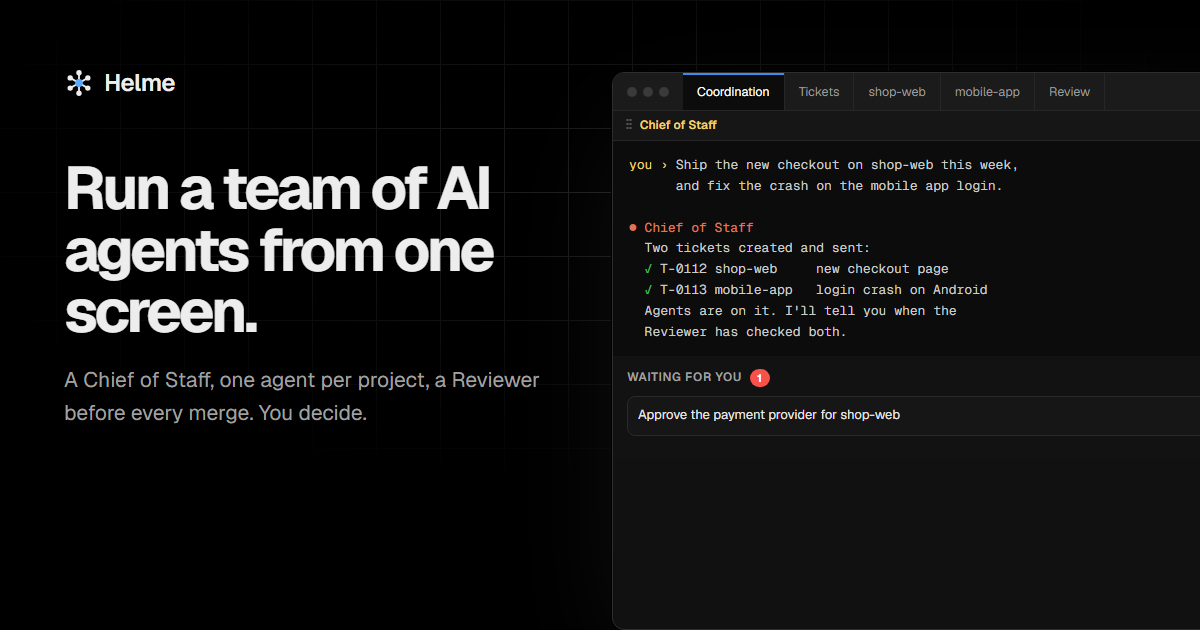
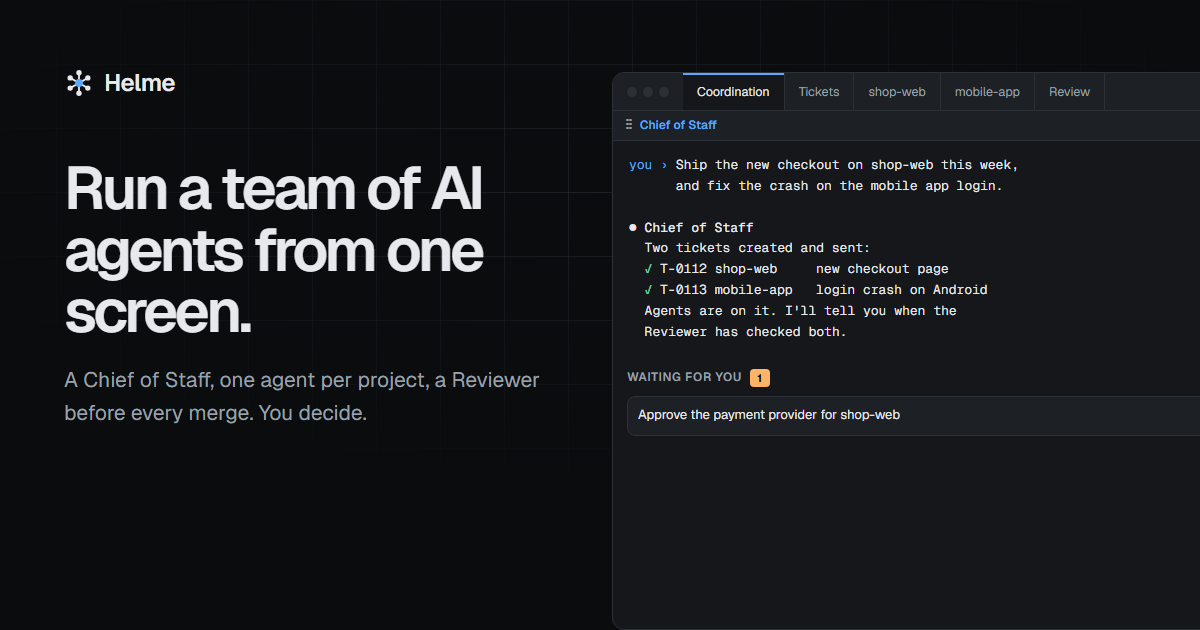
Apply the approved Helme brand to the home and Updates pages
Colors come from the brand tokens (ground, surface, line, ink, helm-blue
accent, waiting/success/danger), every hard-coded color is mapped to a
token, radii are 4/8/12, drop shadows are removed, primary buttons use the
accent, and the display weight is 600. The share image is re-rendered.

diff --git a/styles.css b/styles.css
@@ -1,18 +1,36 @@
 :root {
-  --bg: #000;
-  --fg: #ededed;
-  --dim: #a1a1a1;
-  --muted: #737373;
-  --line: #1f1f1f;
-  --line-2: #2e2e2e;
-  --card: #0a0a0a;
-  --term: #0c0c0c;
-  --green: #3fb950;
-  --yellow: #e3b341;
-  --red: #f85149;
-  --blue: #3b8eea;
-  --sans: "Geist", -apple-system, "Segoe UI", Roboto, Helvetica, Arial, sans-serif;
-  --mono: "Geist Mono", ui-monospace, "Cascadia Mono", Consolas, monospace;
+  /* Helme brand tokens (approved 2026-10-04; dark theme) */
+  --helm-blue: #5aa9ff;
+  --accent: #5aa9ff;
+  --on-accent: #0b0c0e;
+  --ground: #0b0c0e;
+  --surface: #15171b;
+  --surface-raised: #1d2025;
+  --line: #2c3037;
+  --ink: #e7e9ec;
+  --ink-muted: #9aa1ab;
+  --waiting: #ffb366;
+  --success: #6fd3a0;
+  --danger: #ff6b6b;
+  --radius-sm: 4px;
+  --radius-md: 8px;
+  --radius-lg: 12px;
+  --grid: color-mix(in srgb, var(--line) 55%, transparent);
+
+  /* names used across the stylesheets */
+  --bg: var(--ground);
+  --fg: var(--ink);
+  --dim: var(--ink-muted);
+  --muted: var(--ink-muted);
+  --line-2: var(--line);
+  --card: var(--surface);
+  --term: var(--surface);
+  --green: var(--success);
+  --yellow: var(--waiting);
+  --red: var(--danger);
+  --blue: var(--accent);
+  --sans: "Geist", "Segoe UI", system-ui, sans-serif;
+  --mono: "Geist Mono", "Cascadia Mono", Consolas, monospace;
   color-scheme: dark;
 }
 
@@ -42,7 +60,7 @@ code, pre { font-family: var(--mono); }
 /* Nav */
 .nav {
   position: sticky; top: 0; z-index: 10;
-  background: rgba(0,0,0,.72);
+  background: color-mix(in srgb, var(--ground) 82%, transparent);
   backdrop-filter: saturate(180%) blur(12px);
   -webkit-backdrop-filter: saturate(180%) blur(12px);
   border-bottom: 1px solid var(--line);
@@ -56,8 +74,8 @@ code, pre { font-family: var(--mono); }
 /* Grid background */
 .grid-bg {
   background-image:
-    linear-gradient(var(--line) 1px, transparent 1px),
-    linear-gradient(90deg, var(--line) 1px, transparent 1px);
+    linear-gradient(var(--grid) 1px, transparent 1px),
+    linear-gradient(90deg, var(--grid) 1px, transparent 1px);
   background-size: 64px 64px;
   background-position: center top;
   position: relative;
@@ -73,15 +91,15 @@ code, pre { font-family: var(--mono); }
 .eyebrow {
   display: inline-flex; align-items: center; gap: 8px;
   font-size: 13px; color: var(--dim);
-  border: 1px solid var(--line-2); border-radius: 999px;
-  padding: 4px 14px; margin-bottom: 28px; background: #050505;
+  border: 1px solid var(--line-2); border-radius: var(--radius-sm);
+  padding: 4px 14px; margin-bottom: 28px; background: var(--surface);
 }
-.dot { width: 6px; height: 6px; border-radius: 50%; background: var(--green); box-shadow: 0 0 8px var(--green); }
+.dot { width: 6px; height: 6px; border-radius: 50%; background: var(--green); }
 h1 {
   font-size: clamp(40px, 7.2vw, 80px);
   line-height: 1.02;
   letter-spacing: -.055em;
-  font-weight: 700;
+  font-weight: 600;
 }
 .lede {
   max-width: 640px; margin: 24px auto 0;
@@ -90,72 +108,71 @@ h1 {
 .cta-row { display: flex; gap: 12px; justify-content: center; margin-top: 36px; flex-wrap: wrap; }
 .btn {
   display: inline-flex; align-items: center; height: 48px; padding: 0 22px;
-  border-radius: 999px; font-weight: 500; font-size: 15px; transition: background .15s, border-color .15s;
+  border-radius: var(--radius-md); font-weight: 500; font-size: 15px; transition: background .15s, border-color .15s;
 }
-.btn-primary { background: var(--fg); color: #000; }
-.btn-primary:hover { background: #fff; }
-.btn-ghost { border: 1px solid var(--line-2); color: var(--fg); background: #000; }
-.btn-ghost:hover { border-color: #555; }
+.btn-primary { background: var(--accent); color: var(--on-accent); }
+.btn-primary:hover { background: color-mix(in srgb, var(--accent) 88%, var(--ink)); }
+.btn-ghost { border: 1px solid var(--line-2); color: var(--fg); background: var(--ground); }
+.btn-ghost:hover { border-color: var(--ink-muted); }
 
 /* Helme window mockup */
 .window {
   margin: 72px auto 0;
   max-width: 1040px;
   border: 1px solid var(--line-2);
-  border-radius: 12px;
+  border-radius: var(--radius-lg);
   overflow: hidden;
-  background: #111;
+  background: var(--surface);
   text-align: left;
-  box-shadow: 0 0 0 1px #000, 0 40px 120px -20px rgba(255,255,255,.08);
 }
-.win-bar { display: flex; align-items: center; background: #1b1b1b; border-bottom: 1px solid #262626; height: 38px; }
+.win-bar { display: flex; align-items: center; background: var(--surface-raised); border-bottom: 1px solid var(--line); height: 38px; }
 .lights { display: flex; gap: 6px; padding: 0 14px; }
-.lights i { width: 10px; height: 10px; border-radius: 50%; background: #3a3a3a; display: block; }
+.lights i { width: 10px; height: 10px; border-radius: 50%; background: var(--line); display: block; }
 .tabs { display: flex; height: 100%; overflow: hidden; font-size: 12.5px; }
-.tab { display: flex; align-items: center; padding: 0 14px; color: #9a9a9a; border-right: 1px solid #262626; white-space: nowrap; }
-.tab.on { background: #0c0c0c; color: #fff; box-shadow: inset 0 2px 0 var(--blue); }
+.tab { display: flex; align-items: center; padding: 0 14px; color: var(--ink-muted); border-right: 1px solid var(--line); white-space: nowrap; }
+.tab.on { background: var(--surface); color: var(--ink); box-shadow: inset 0 2px 0 var(--helm-blue); }
 .tab.plus { border-right: 0; }
 .win-body { display: grid; grid-template-columns: 1.05fr 1fr; min-height: 400px; }
 .pane { min-width: 0; }
 .pane-h {
-  font-size: 12px; font-weight: 600; color: #f1d27a; background: #161616;
-  padding: 5px 12px; border-bottom: 1px solid #262626;
+  font-size: 12px; font-weight: 600; color: var(--accent); background: var(--surface-raised);
+  padding: 5px 12px; border-bottom: 1px solid var(--line);
 }
-.grip { color: #555; margin-right: 6px; letter-spacing: -2px; }
-.term { background: var(--term); border-right: 1px solid #262626; }
+.grip { color: var(--ink-muted); margin-right: 6px; letter-spacing: -2px; }
+.term { background: var(--term); border-right: 1px solid var(--line); }
 .t {
-  font-size: 12.5px; line-height: 1.6; color: #cccccc;
+  font-size: 12.5px; line-height: 1.6; color: var(--ink);
   padding: 14px 16px; white-space: pre; overflow: hidden;
 }
-.t .p { color: #f1d27a; }
-.t .a { color: #d9775a; font-weight: 500; }
-.cursor { display: inline-block; width: 8px; height: 15px; background: #ccc; vertical-align: -3px; animation: blink 1.1s steps(1) infinite; }
+.t .p { color: var(--accent); }
+.t .a { color: var(--ink); font-weight: 500; }
+.cursor { display: inline-block; width: 8px; height: 15px; background: var(--ink); vertical-align: -3px; animation: blink 1.1s steps(1) infinite; }
 @keyframes blink { 50% { opacity: 0; } }
 
-.report { background: #121212; padding: 0 0 16px; font-size: 13px; }
-.rep-tabs { display: flex; gap: 6px; align-items: center; padding: 10px 14px; border-bottom: 1px solid #262626; }
-.rep-tabs span { padding: 3px 12px; border-radius: 6px; color: #9a9a9a; }
-.rep-tabs span.on { background: #222; color: #fff; border: 1px solid #333; }
+.report { background: var(--surface); padding: 0 0 16px; font-size: 13px; }
+.rep-tabs { display: flex; gap: 6px; align-items: center; padding: 10px 14px; border-bottom: 1px solid var(--line); }
+.rep-tabs span { padding: 3px 12px; border-radius: var(--radius-sm); color: var(--ink-muted); }
+.rep-tabs span.on { background: var(--surface-raised); color: var(--ink); border: 1px solid var(--line); }
 .rep-tabs em { margin-left: auto; font-style: normal; color: var(--muted); font-size: 12px; }
 .rep-sec { padding: 12px 14px 0; }
 .rep-sec h4 { font-size: 12px; text-transform: uppercase; letter-spacing: .06em; color: var(--dim); font-weight: 600; margin-bottom: 8px; display: flex; gap: 8px; align-items: center; }
-.rep-sec h4 b, .card-h b { background: var(--red); color: #fff; font-size: 11px; border-radius: 999px; padding: 0 7px; line-height: 18px; }
+.rep-sec h4 b, .card-h b { background: var(--waiting); color: var(--on-accent); font-size: 11px; border-radius: var(--radius-sm); padding: 0 7px; line-height: 18px; }
 .wait {
   display: flex; align-items: center; gap: 8px;
-  border: 1px solid #2a2a2a; border-radius: 8px; padding: 8px 10px; margin-bottom: 6px; background: #161616;
+  border: 1px solid var(--line); border-radius: var(--radius-md); padding: 8px 10px; margin-bottom: 6px; background: var(--surface-raised);
 }
-.wait span { flex: 1; min-width: 0; color: #e6e6e6; }
+.wait span { flex: 1; min-width: 0; color: var(--ink); }
 .wait a { font-size: 11.5px; color: var(--blue); white-space: nowrap; }
-.wait a.done { color: #ddd; border: 1px solid #3a3a3a; border-radius: 6px; padding: 1px 8px; }
-.proj { display: flex; align-items: center; gap: 10px; padding: 6px 0; border-bottom: 1px solid #1f1f1f; }
+.wait a.done { color: var(--ink); border: 1px solid var(--line); border-radius: var(--radius-sm); padding: 1px 8px; }
+.proj { display: flex; align-items: center; gap: 10px; padding: 6px 0; border-bottom: 1px solid var(--line); }
 .proj i { width: 8px; height: 8px; border-radius: 50%; flex: none; }
 .proj i.g { background: var(--green); }
 .proj i.y { background: var(--yellow); }
-.proj b { font-weight: 500; color: #eee; }
+.proj b { font-weight: 500; color: var(--ink); }
 .proj code { font-size: 11.5px; color: var(--muted); overflow: hidden; text-overflow: ellipsis; white-space: nowrap; }
 .proj span { margin-left: auto; color: var(--dim); font-size: 12px; white-space: nowrap; }
-.rev { color: #ccc; }
-.pass { font-family: var(--mono); font-size: 11px; color: var(--green); border: 1px solid #23542e; border-radius: 4px; padding: 0 6px; margin-right: 6px; }
+.rev { color: var(--ink); }
+.pass { font-family: var(--mono); font-size: 11px; color: var(--green); border: 1px solid color-mix(in srgb, var(--success) 35%, transparent); border-radius: var(--radius-sm); padding: 0 6px; margin-right: 6px; }
 .fig-note { margin-top: 16px; font-size: 13px; color: var(--muted); }
 
 /* Strip */
@@ -163,7 +180,7 @@ h1 {
 .strip-in { display: flex; align-items: center; justify-content: space-between; gap: 24px; padding-top: 28px; padding-bottom: 28px; flex-wrap: wrap; }
 .strip p { color: var(--muted); font-size: 14px; }
 .strip ul { list-style: none; display: flex; gap: 48px; flex-wrap: wrap; }
-.strip li { font-size: 22px; font-weight: 600; letter-spacing: -.03em; color: #cfcfcf; }
+.strip li { font-size: 22px; font-weight: 600; letter-spacing: -.03em; color: var(--ink); }
 
 /* Stats */
 .stats { border-bottom: 1px solid var(--line); }
@@ -178,19 +195,19 @@ h1 {
 .kicker { font-family: var(--mono); font-size: 13px; color: var(--muted); text-transform: uppercase; letter-spacing: .08em; margin-bottom: 16px; }
 h2 { font-size: clamp(32px, 4.6vw, 52px); line-height: 1.08; letter-spacing: -.045em; font-weight: 600; }
 h2.huge { font-size: clamp(44px, 8vw, 96px); line-height: 1; letter-spacing: -.06em; }
-.dim { color: #5c5c5c; }
+.dim { color: var(--ink-muted); }
 h3 { font-size: 20px; letter-spacing: -.02em; font-weight: 600; }
 
-.bento { display: grid; grid-template-columns: repeat(3, 1fr); margin-top: 56px; border: 1px solid var(--line-2); border-radius: 12px; overflow: hidden; }
+.bento { display: grid; grid-template-columns: repeat(3, 1fr); margin-top: 56px; border: 1px solid var(--line-2); border-radius: var(--radius-lg); overflow: hidden; }
 .cell { padding: 36px 32px 40px; border-right: 1px solid var(--line-2); background: var(--card); }
 .cell:last-child { border-right: 0; }
 .num { font-family: var(--mono); font-size: 13px; color: var(--muted); display: block; margin-bottom: 40px; }
 .cell p { margin-top: 12px; color: var(--dim); font-size: 15px; }
 
-.panes { display: grid; grid-template-columns: repeat(3, 1fr); gap: 1px; background: #262626; border: 1px solid #262626; border-radius: 12px; overflow: hidden; margin-top: 24px; }
+.panes { display: grid; grid-template-columns: repeat(3, 1fr); gap: 1px; background: var(--line); border: 1px solid var(--line); border-radius: var(--radius-lg); overflow: hidden; margin-top: 24px; }
 .mini { background: var(--term); min-width: 0; }
-.mh { font-size: 12px; font-weight: 600; color: #f1d27a; background: #161616; padding: 5px 12px; border-bottom: 1px solid #262626; }
-.mini pre { font-size: 12px; line-height: 1.65; color: #c8c8c8; padding: 12px 14px 16px; white-space: pre; overflow: hidden; min-height: 92px; }
+.mh { font-size: 12px; font-weight: 600; color: var(--accent); background: var(--surface-raised); padding: 5px 12px; border-bottom: 1px solid var(--line); }
+.mini pre { font-size: 12px; line-height: 1.65; color: var(--ink); padding: 12px 14px 16px; white-space: pre; overflow: hidden; min-height: 92px; }
 
 /* Features */
 .feature {
@@ -200,20 +217,20 @@ h3 { font-size: 20px; letter-spacing: -.02em; font-weight: 600; }
 .feature:first-of-type { margin-top: 56px; }
 .f-text p { margin-top: 14px; color: var(--dim); font-size: 17px; max-width: 460px; }
 .f-text h3 { font-size: clamp(24px, 3vw, 32px); letter-spacing: -.035em; }
-.card { border: 1px solid var(--line-2); border-radius: 12px; background: var(--card); padding: 20px; font-size: 14px; }
+.card { border: 1px solid var(--line-2); border-radius: var(--radius-lg); background: var(--card); padding: 20px; font-size: 14px; }
 .card-h { font-weight: 600; margin-bottom: 12px; display: flex; gap: 8px; align-items: center; }
-.chat { padding: 12px 14px; border-radius: 10px; max-width: 88%; }
-.chat.me { background: var(--fg); color: #000; margin-left: auto; border-bottom-right-radius: 3px; }
-.chat.bot { background: #161616; border: 1px solid #2a2a2a; margin-top: 12px; border-bottom-left-radius: 3px; }
+.chat { padding: 12px 14px; border-radius: var(--radius-md); max-width: 88%; }
+.chat.me { background: var(--accent); color: var(--on-accent); margin-left: auto; }
+.chat.bot { background: var(--surface-raised); border: 1px solid var(--line); margin-top: 12px; }
 .chat.bot b { font-family: var(--mono); font-weight: 500; }
 .doc ul { list-style: none; }
-.doc li { padding: 10px 0; border-top: 1px solid #1f1f1f; display: flex; gap: 12px; }
+.doc li { padding: 10px 0; border-top: 1px solid var(--line); display: flex; gap: 12px; }
 .doc li span { width: 14px; text-align: center; flex: none; }
-.timeline > div { display: flex; gap: 16px; padding: 10px 0; border-top: 1px solid #1f1f1f; color: var(--dim); }
+.timeline > div { display: flex; gap: 16px; padding: 10px 0; border-top: 1px solid var(--line); color: var(--dim); }
 .timeline > div:first-child { border-top: 0; }
 .timeline code { color: var(--fg); min-width: 48px; }
 .timeline .hl span { color: var(--fg); }
-.bounds > div { display: flex; gap: 12px; padding: 9px 0; border-top: 1px solid #1f1f1f; color: #d4d4d4; }
+.bounds > div { display: flex; gap: 12px; padding: 9px 0; border-top: 1px solid var(--line); color: var(--ink); }
 .bounds > div:first-child { border-top: 0; }
 .no, .yes { font-family: var(--mono); width: 14px; flex: none; text-align: center; }
 .no { color: var(--red); }
@@ -251,7 +268,7 @@ h3 { font-size: 20px; letter-spacing: -.02em; font-weight: 600; }
 /* Tablet */
 @media (max-width: 900px) {
   .win-body { grid-template-columns: 1fr; }
-  .term { border-right: 0; border-bottom: 1px solid #262626; }
+  .term { border-right: 0; border-bottom: 1px solid var(--line); }
   .stats-grid { grid-template-columns: repeat(2, 1fr); }
   .stat:nth-child(3) { border-left: 1px solid var(--line); }
   .stat:nth-child(-n+2) { border-bottom: 1px solid var(--line); }
@@ -272,7 +289,7 @@ h3 { font-size: 20px; letter-spacing: -.02em; font-weight: 600; }
   .nav-links { display: none; }
   .br-lg { display: none; }
   .hero { padding: 72px 0 48px; }
-  .window { margin-top: 48px; border-radius: 10px; }
+  .window { margin-top: 48px; border-radius: var(--radius-lg); }
   .hide-sm { display: none; }
   .lights { display: none; }
   .tab { padding: 0 10px; font-size: 11.5px; }

diff --git a/updates/updates.css b/updates/updates.css
@@ -28,53 +28,53 @@
   margin-left: -1px;
   transition: background .15s, border-color .15s;
 }
-.rel-item:hover { background: #0b0b0b; }
-.rel-item.on { border-left-color: var(--fg); background: #0d0d0d; }
+.rel-item:hover { background: var(--surface); }
+.rel-item.on { border-left-color: var(--fg); background: var(--surface); }
 .ri-top { display: flex; align-items: center; gap: 8px; }
 .ri-ver { font-family: var(--mono); font-size: 14px; font-weight: 500; color: var(--fg); }
-.rel-item:not(.on) .ri-ver { color: #cfcfcf; }
+.rel-item:not(.on) .ri-ver { color: var(--ink); }
 .ri-date { display: block; font-size: 12.5px; color: var(--muted); margin-top: 2px; }
 .ri-title {
   display: -webkit-box; -webkit-line-clamp: 2; -webkit-box-orient: vertical; overflow: hidden;
   font-size: 13.5px; color: var(--dim); margin-top: 4px; line-height: 1.45;
 }
-.rel-item.on .ri-title { color: #d4d4d4; }
+.rel-item.on .ri-title { color: var(--ink); }
 
 .badge {
   font-size: 11px; font-weight: 600; line-height: 18px;
-  padding: 0 8px; border-radius: 999px;
-  color: #0a0a0a; background: var(--green);
+  padding: 0 8px; border-radius: var(--radius-sm);
+  color: var(--surface); background: var(--green);
 }
 
 /* Release */
 .rel { padding: 40px 0 96px 56px; min-width: 0; }
 .rel-meta { display: flex; align-items: center; gap: 12px; flex-wrap: wrap; }
-.rel-ver { font-family: var(--mono); font-size: 15px; border: 1px solid var(--line-2); border-radius: 6px; padding: 2px 10px; }
+.rel-ver { font-family: var(--mono); font-size: 15px; border: 1px solid var(--line-2); border-radius: var(--radius-sm); padding: 2px 10px; }
 .rel-date { color: var(--muted); font-size: 14px; }
 .rel-includes { margin-top: 10px; font-family: var(--mono); font-size: 12.5px; color: var(--muted); }
 .rel-title { margin-top: 20px; font-size: clamp(28px, 3.6vw, 40px); }
 .rel-summary { margin-top: 14px; color: var(--dim); font-size: 17px; max-width: 680px; }
 
 .rel-shot { margin-top: 32px; }
-.rel-shot a { display: block; border: 1px solid var(--line-2); border-radius: 12px; overflow: hidden; background: #0c0c0c; box-shadow: 0 30px 80px -30px rgba(255,255,255,.07); }
+.rel-shot a { display: block; border: 1px solid var(--line-2); border-radius: var(--radius-lg); overflow: hidden; background: var(--surface); }
 .rel-shot img { display: block; width: 100%; height: auto; }
 .rel-shot figcaption { margin-top: 10px; font-size: 13px; color: var(--muted); }
 
 .rel-sec { margin-top: 36px; }
 .lbl {
   display: inline-block; font-size: 12px; font-weight: 600; letter-spacing: .06em; text-transform: uppercase;
-  padding: 2px 10px; border-radius: 999px; border: 1px solid;
+  padding: 2px 10px; border-radius: var(--radius-sm); border: 1px solid;
 }
-.lbl-new { color: #7ee2a8; border-color: #1e4d32; background: rgba(63,185,80,.08); }
-.lbl-improved { color: #8fc1ff; border-color: #1f3d63; background: rgba(59,142,234,.08); }
-.lbl-fixed { color: #f0c674; border-color: #57461c; background: rgba(227,179,65,.08); }
+.lbl-new { color: var(--success); border-color: color-mix(in srgb, var(--success) 35%, transparent); background: color-mix(in srgb, var(--success) 10%, transparent); }
+.lbl-improved { color: var(--accent); border-color: color-mix(in srgb, var(--accent) 35%, transparent); background: color-mix(in srgb, var(--accent) 10%, transparent); }
+.lbl-fixed { color: var(--waiting); border-color: color-mix(in srgb, var(--waiting) 35%, transparent); background: color-mix(in srgb, var(--waiting) 10%, transparent); }
 .rel-sec ul { list-style: none; margin-top: 12px; border-top: 1px solid var(--line); }
-.rel-sec li { position: relative; padding: 12px 0 12px 22px; border-bottom: 1px solid var(--line); color: #d6d6d6; font-size: 15.5px; }
-.rel-sec li::before { content: ""; position: absolute; left: 4px; top: 22px; width: 6px; height: 6px; border-radius: 50%; background: #555; }
+.rel-sec li { position: relative; padding: 12px 0 12px 22px; border-bottom: 1px solid var(--line); color: var(--ink); font-size: 15.5px; }
+.rel-sec li::before { content: ""; position: absolute; left: 4px; top: 22px; width: 6px; height: 6px; border-radius: 50%; background: var(--ink-muted); }
 
 .rel-pn { display: flex; justify-content: space-between; gap: 12px; margin-top: 48px; }
-.pn { display: flex; flex-direction: column; border: 1px solid var(--line-2); border-radius: 10px; padding: 12px 16px; font-family: var(--mono); font-size: 14px; min-width: 140px; transition: border-color .15s; }
-.pn:hover { border-color: #555; }
+.pn { display: flex; flex-direction: column; border: 1px solid var(--line-2); border-radius: var(--radius-md); padding: 12px 16px; font-family: var(--mono); font-size: 14px; min-width: 140px; transition: border-color .15s; }
+.pn:hover { border-color: var(--ink-muted); }
 .pn small { font-family: var(--sans); font-size: 12px; color: var(--muted); }
 .pn.newer { margin-left: auto; text-align: right; }
 
@@ -88,15 +88,15 @@
     max-height: none; overflow-x: auto; overflow-y: hidden;
     border-right: 0; border-bottom: 1px solid var(--line);
     padding: 12px 16px; margin: 0 -24px;
-    background: rgba(0,0,0,.85);
+    background: color-mix(in srgb, var(--ground) 82%, transparent);
     backdrop-filter: blur(12px); -webkit-backdrop-filter: blur(12px);
     scrollbar-width: none;
   }
   .rel-list::-webkit-scrollbar { display: none; }
-  .rel-item { flex: none; border: 1px solid var(--line-2); border-radius: 999px; padding: 6px 14px; margin: 0; }
+  .rel-item { flex: none; border: 1px solid var(--line-2); border-radius: var(--radius-md); padding: 6px 14px; margin: 0; }
   .rel-item.on { background: var(--fg); border-color: var(--fg); }
-  .rel-item.on .ri-ver { color: #000; }
-  .rel-item.on .badge { background: #000; color: var(--green); }
+  .rel-item.on .ri-ver { color: var(--on-accent); }
+  .rel-item.on .badge { background: var(--on-accent); color: var(--success); }
   .ri-date, .ri-title { display: none; }
   .rel { padding: 32px 0 72px; }
 }
@@ -108,4 +108,4 @@
   .pn { min-width: 0; flex: 1; }
 }
 
-.rel code { font-family: var(--mono); font-size: .88em; background: #141414; border: 1px solid var(--line-2); border-radius: 4px; padding: 0 5px; }
+.rel code { font-family: var(--mono); font-size: .88em; background: var(--surface-raised); border: 1px solid var(--line-2); border-radius: var(--radius-sm); padding: 0 5px; }
